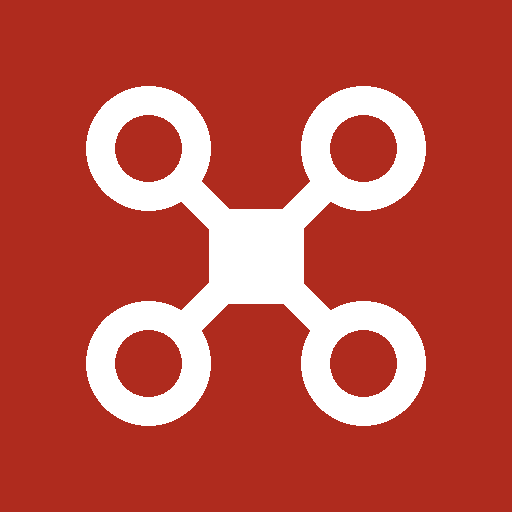
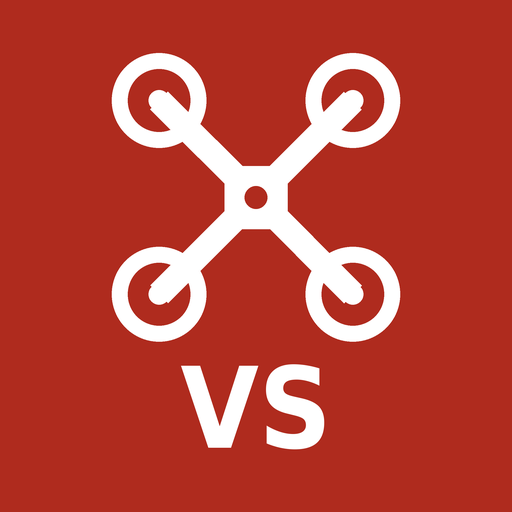
Neuer Name Drohne-VS-Protokoll und neues App-Symbol
Claude-Session: https://claude.ai/code/session_01C8AH2BvqEduLooYPvFEvqQ

Changed region(s): [[0.1562, 0.0938, 0.8438, 0.9062]]

diff --git a/pb_public/index.html b/pb_public/index.html
@@ -3,14 +3,14 @@
 <head>
 <meta charset="utf-8">
 <meta name="viewport" content="width=device-width,initial-scale=1,viewport-fit=cover">
-<title>UAS-Flugbuch Feuerwehr</title>
+<title>Drohne-VS-Protokoll</title>
 <meta name="theme-color" content="#AF2B1E">
 <meta name="apple-mobile-web-app-capable" content="yes">
 <meta name="mobile-web-app-capable" content="yes">
-<meta name="apple-mobile-web-app-title" content="UAS-Flugbuch">
-<link rel="manifest" href="manifest.webmanifest">
-<link rel="icon" href="icon-192.png" type="image/png">
-<link rel="apple-touch-icon" href="icon-180.png">
+<meta name="apple-mobile-web-app-title" content="Drohne-VS-Protokoll">
+<link rel="manifest" href="manifest.webmanifest?v=2">
+<link rel="icon" href="icon-192.png?v=2" type="image/png">
+<link rel="apple-touch-icon" href="icon-180.png?v=2">
 <link rel="preconnect" href="https://fonts.googleapis.com">
 <link rel="stylesheet" href="https://fonts.googleapis.com/css2?family=Barlow+Condensed:wght@500;600;700&family=Barlow:wght@400;500;600&family=IBM+Plex+Mono:wght@400;500&display=swap">
 <script src="vendor/pocketbase.umd.js"></script>
@@ -66,7 +66,7 @@ body::before { content: ""; position: fixed; inset: 0 0 auto; height: env(safe-a
 .top-in, .main { max-width: 1120px; margin: 0 auto; padding-left: max(16px, env(safe-area-inset-left, 0px)); padding-right: max(16px, env(safe-area-inset-right, 0px)); }
 .top-in { display: flex; align-items: flex-end; gap: 20px; flex-wrap: wrap; padding-block: 10px 0; }
 .brand { display: flex; align-items: center; gap: 10px; padding-bottom: 10px; min-width: 0; }
-.brand-mark { width: 30px; height: 30px; flex: none; }
+.brand-mark { width: 34px; height: 34px; flex: none; border-radius: 8px; }
 .brand-logo { height: 40px; width: auto; max-width: 120px; flex: none; object-fit: contain; }
 .logo-box { display: flex; gap: 14px; align-items: center; flex-wrap: wrap; }
 .logo-prev { width: 96px; height: 96px; border: 1px dashed var(--line); border-radius: var(--r); display: grid; place-items: center; background: var(--bg); overflow: hidden; }
@@ -301,15 +301,9 @@ details.extra[open] { display: grid; gap: 14px; }
   <div class="top-in">
     <div class="brand">
       <img class="brand-logo" id="unitLogo" alt="" hidden>
-      <svg class="brand-mark" id="unitMark" viewBox="0 0 32 32" aria-hidden="true">
-        <g fill="none" stroke="var(--ink)" stroke-width="2">
-          <circle cx="7" cy="7" r="4.5"/><circle cx="25" cy="7" r="4.5"/><circle cx="7" cy="25" r="4.5"/><circle cx="25" cy="25" r="4.5"/>
-          <path d="M10.5 10.5 L21.5 21.5 M21.5 10.5 L10.5 21.5"/>
-        </g>
-        <rect x="12" y="12" width="8" height="8" rx="1.5" fill="var(--accent)"/>
-      </svg>
+      <img class="brand-mark" id="unitMark" src="icon-192.png?v=2" alt="">
       <div style="min-width:0">
-        <div class="brand-t">UAS-Flugbuch</div>
+        <div class="brand-t">Drohne-VS-Protokoll</div>
         <div class="brand-s" id="unitName">Drohnengruppe</div>
       </div>
     </div>
@@ -879,7 +873,7 @@ function vAuth() {
   if (S.auth === "checking") return `<div class="auth"><div class="sheet sec"><h2>Verbinde …</h2></div></div>`;
   const setup = S.auth === "setup";
   return `<div class="auth"><form class="sheet sec" id="authForm" autocomplete="on">
-    <div><h1>${setup ? "Ersteinrichtung" : "Anmelden"}</h1><p class="sub muted">${setup ? "Lege den Admin-Zugang an. Das ist einmalig nötig; danach meldest du dich nur noch an und legst in den Stammdaten den Tablet-Zugang an." : "UAS-Flugbuch der Drohnengruppe"}</p></div>
+    <div><h1>${setup ? "Ersteinrichtung" : "Anmelden"}</h1><p class="sub muted">${setup ? "Lege den Admin-Zugang an. Das ist einmalig nötig; danach meldest du dich nur noch an und legst in den Stammdaten den Tablet-Zugang an." : "Drohne-VS-Protokoll der Drohnengruppe"}</p></div>
     ${S.authErr ? `<div class="banner warn">${esc(S.authErr)}</div>` : ""}
     ${setup ? `<label class="f"><span>Einrichtungscode</span><input id="a-code" class="mono" required autocomplete="off" placeholder="steht in der Nachricht von Claude" value="${esc((S.authForm || {}).code || "")}"></label>
       <label class="f"><span>Dein Name</span><input id="a-name" required placeholder="z. B. Michael Grießhaber" autocomplete="name" value="${esc((S.authForm || {}).name || "")}"></label>` : ""}
@@ -1586,7 +1580,7 @@ function vStamm() {
     </tbody></table></div><p class="muted" style="font-size:13px">Die <b>Standard</b>-Drohne (z. B. die Drohne der FFW VS) ist in jedem neuen Bericht vorausgewählt. <b>Private</b> Drohnen stehen in der Auswahl unten und müssen bewusst gewählt werden; im Einsatz erscheint ein Hinweis.</p>` : `<p class="muted">Noch keine Drohnen angelegt.</p>`}
   </section></div>`;
   h += vUsers();
-  h += `<p class="muted" style="font-size:12px">UAS-Flugbuch Version ${APP_VERSION}</p>`;
+  h += `<p class="muted" style="font-size:12px">Drohne-VS-Protokoll · Version ${APP_VERSION}</p>`;
   return h;
 }
 function vUsers() {

diff --git a/pb_public/sw.js b/pb_public/sw.js
@@ -1,7 +1,7 @@
 // Offline-Unterstützung: App-Dateien werden auf dem Gerät zwischengespeichert.
 // Daten (/api/) laufen nie über diesen Cache – die speichert die App selbst.
-const CACHE = "uas-flugbuch-v26";
-const SHELL = ["./", "index.html", "vendor/pocketbase.umd.js", "vendor/jspdf.umd.min.js", "manifest.webmanifest", "icon-192.png", "icon-180.png"];
+const CACHE = "uas-flugbuch-v27";
+const SHELL = ["./", "index.html", "vendor/pocketbase.umd.js", "icon-512.png", "icon-maskable.png", "vendor/jspdf.umd.min.js", "manifest.webmanifest", "icon-192.png", "icon-180.png"];
 self.addEventListener("install", e => { e.waitUntil(caches.open(CACHE).then(c => c.addAll(SHELL)).then(() => self.skipWaiting())); });
 self.addEventListener("activate", e => {
   e.waitUntil(caches.keys().then(ks => Promise.all(ks.filter(k => k !== CACHE).map(k => caches.delete(k)))).then(() => self.clients.claim()));
